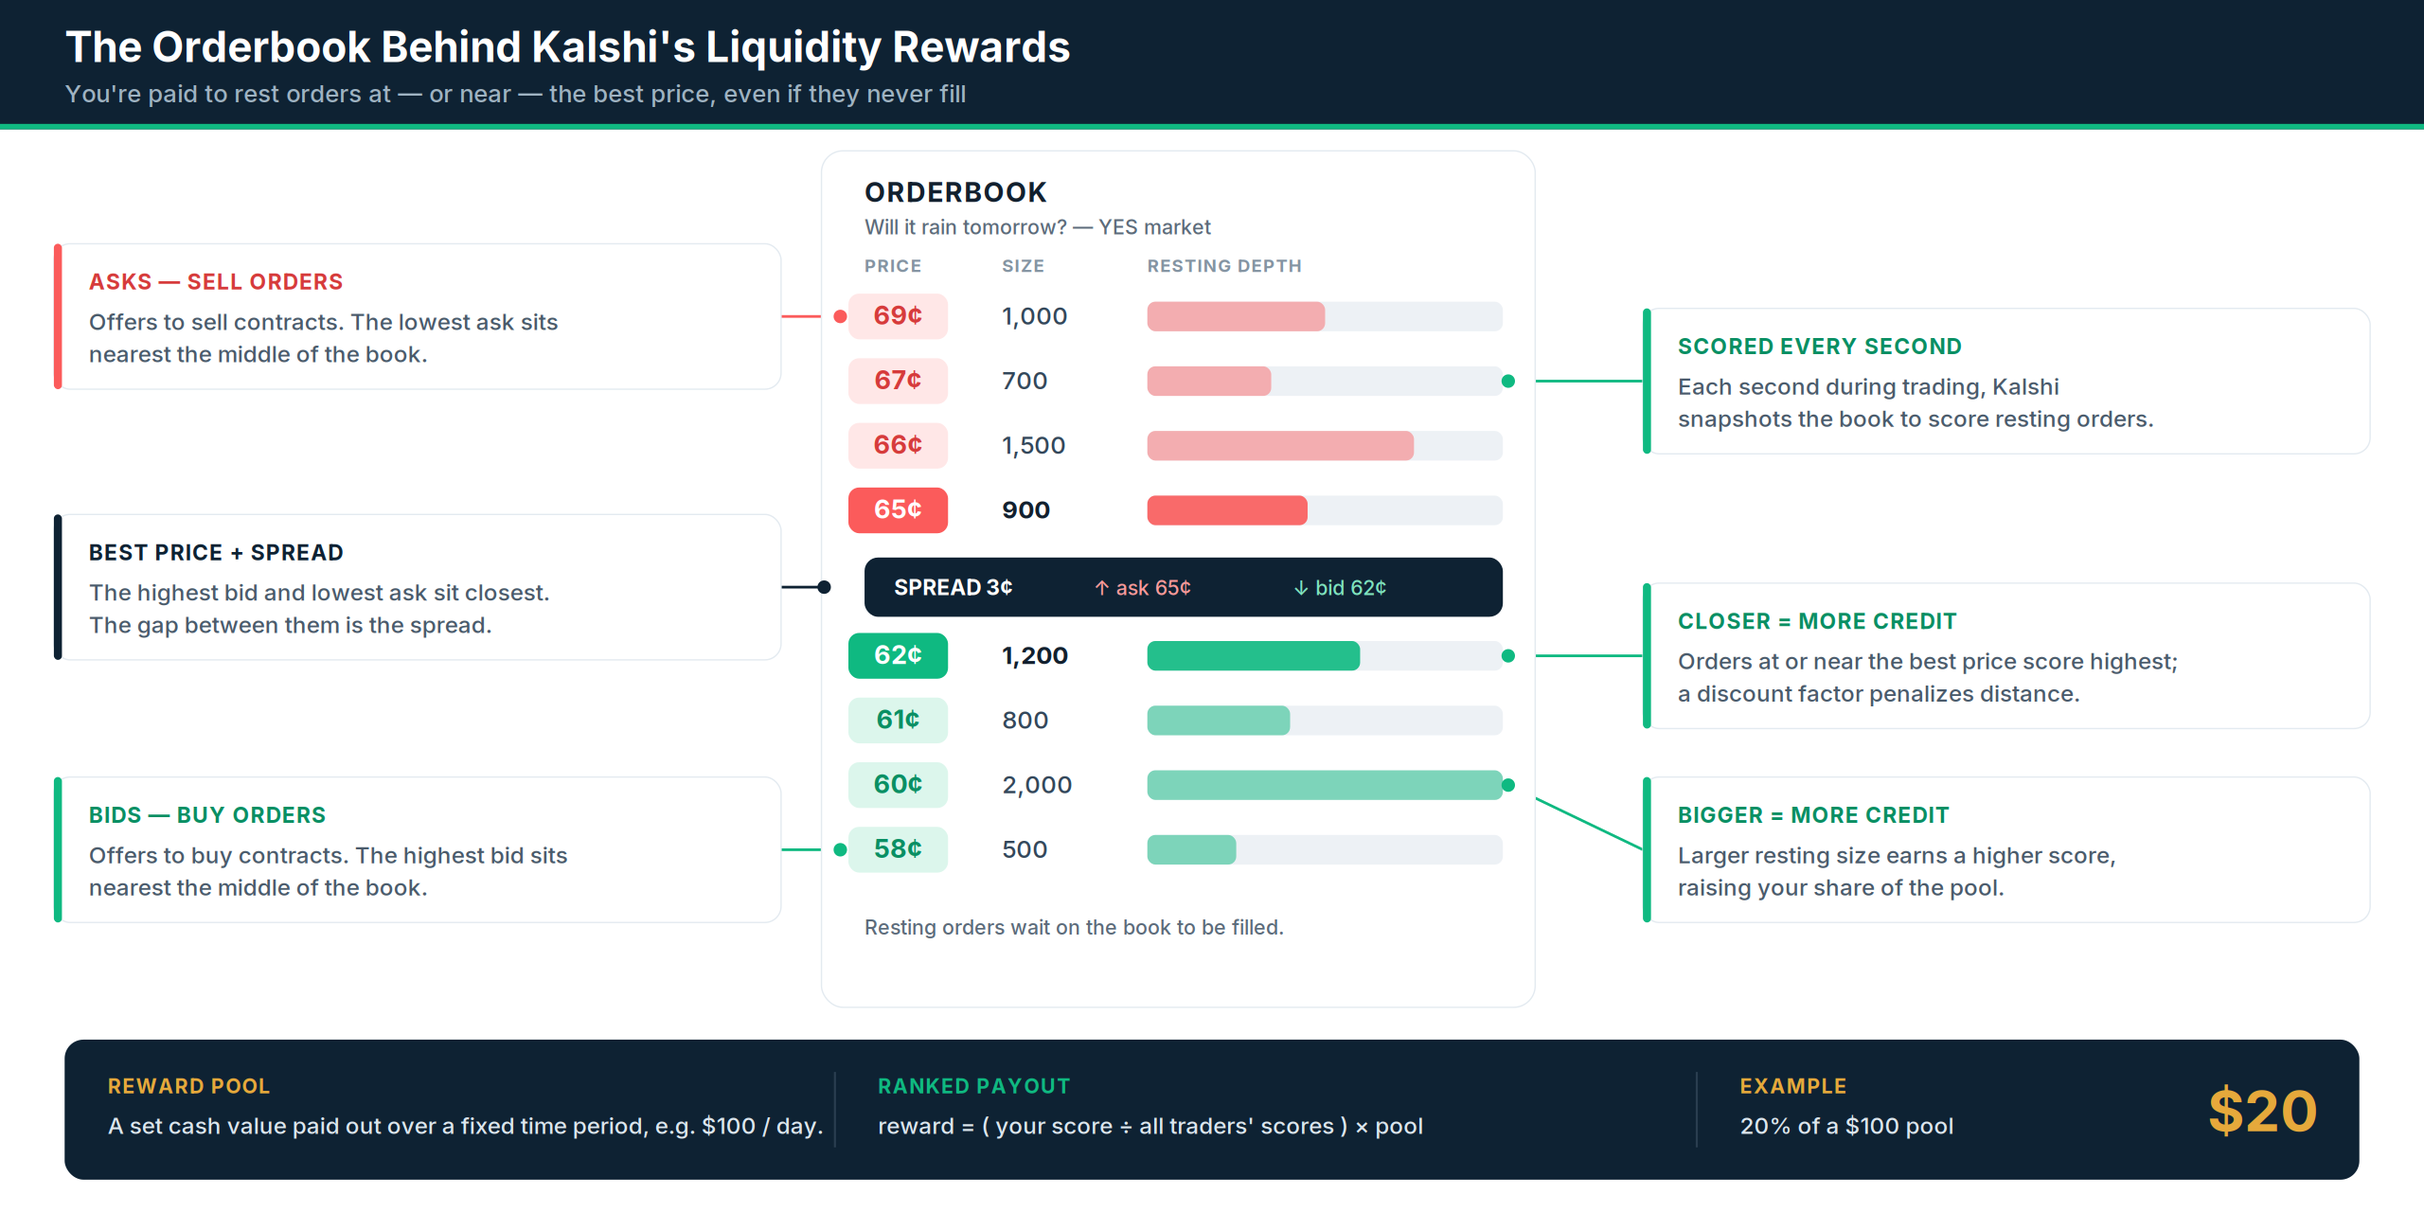
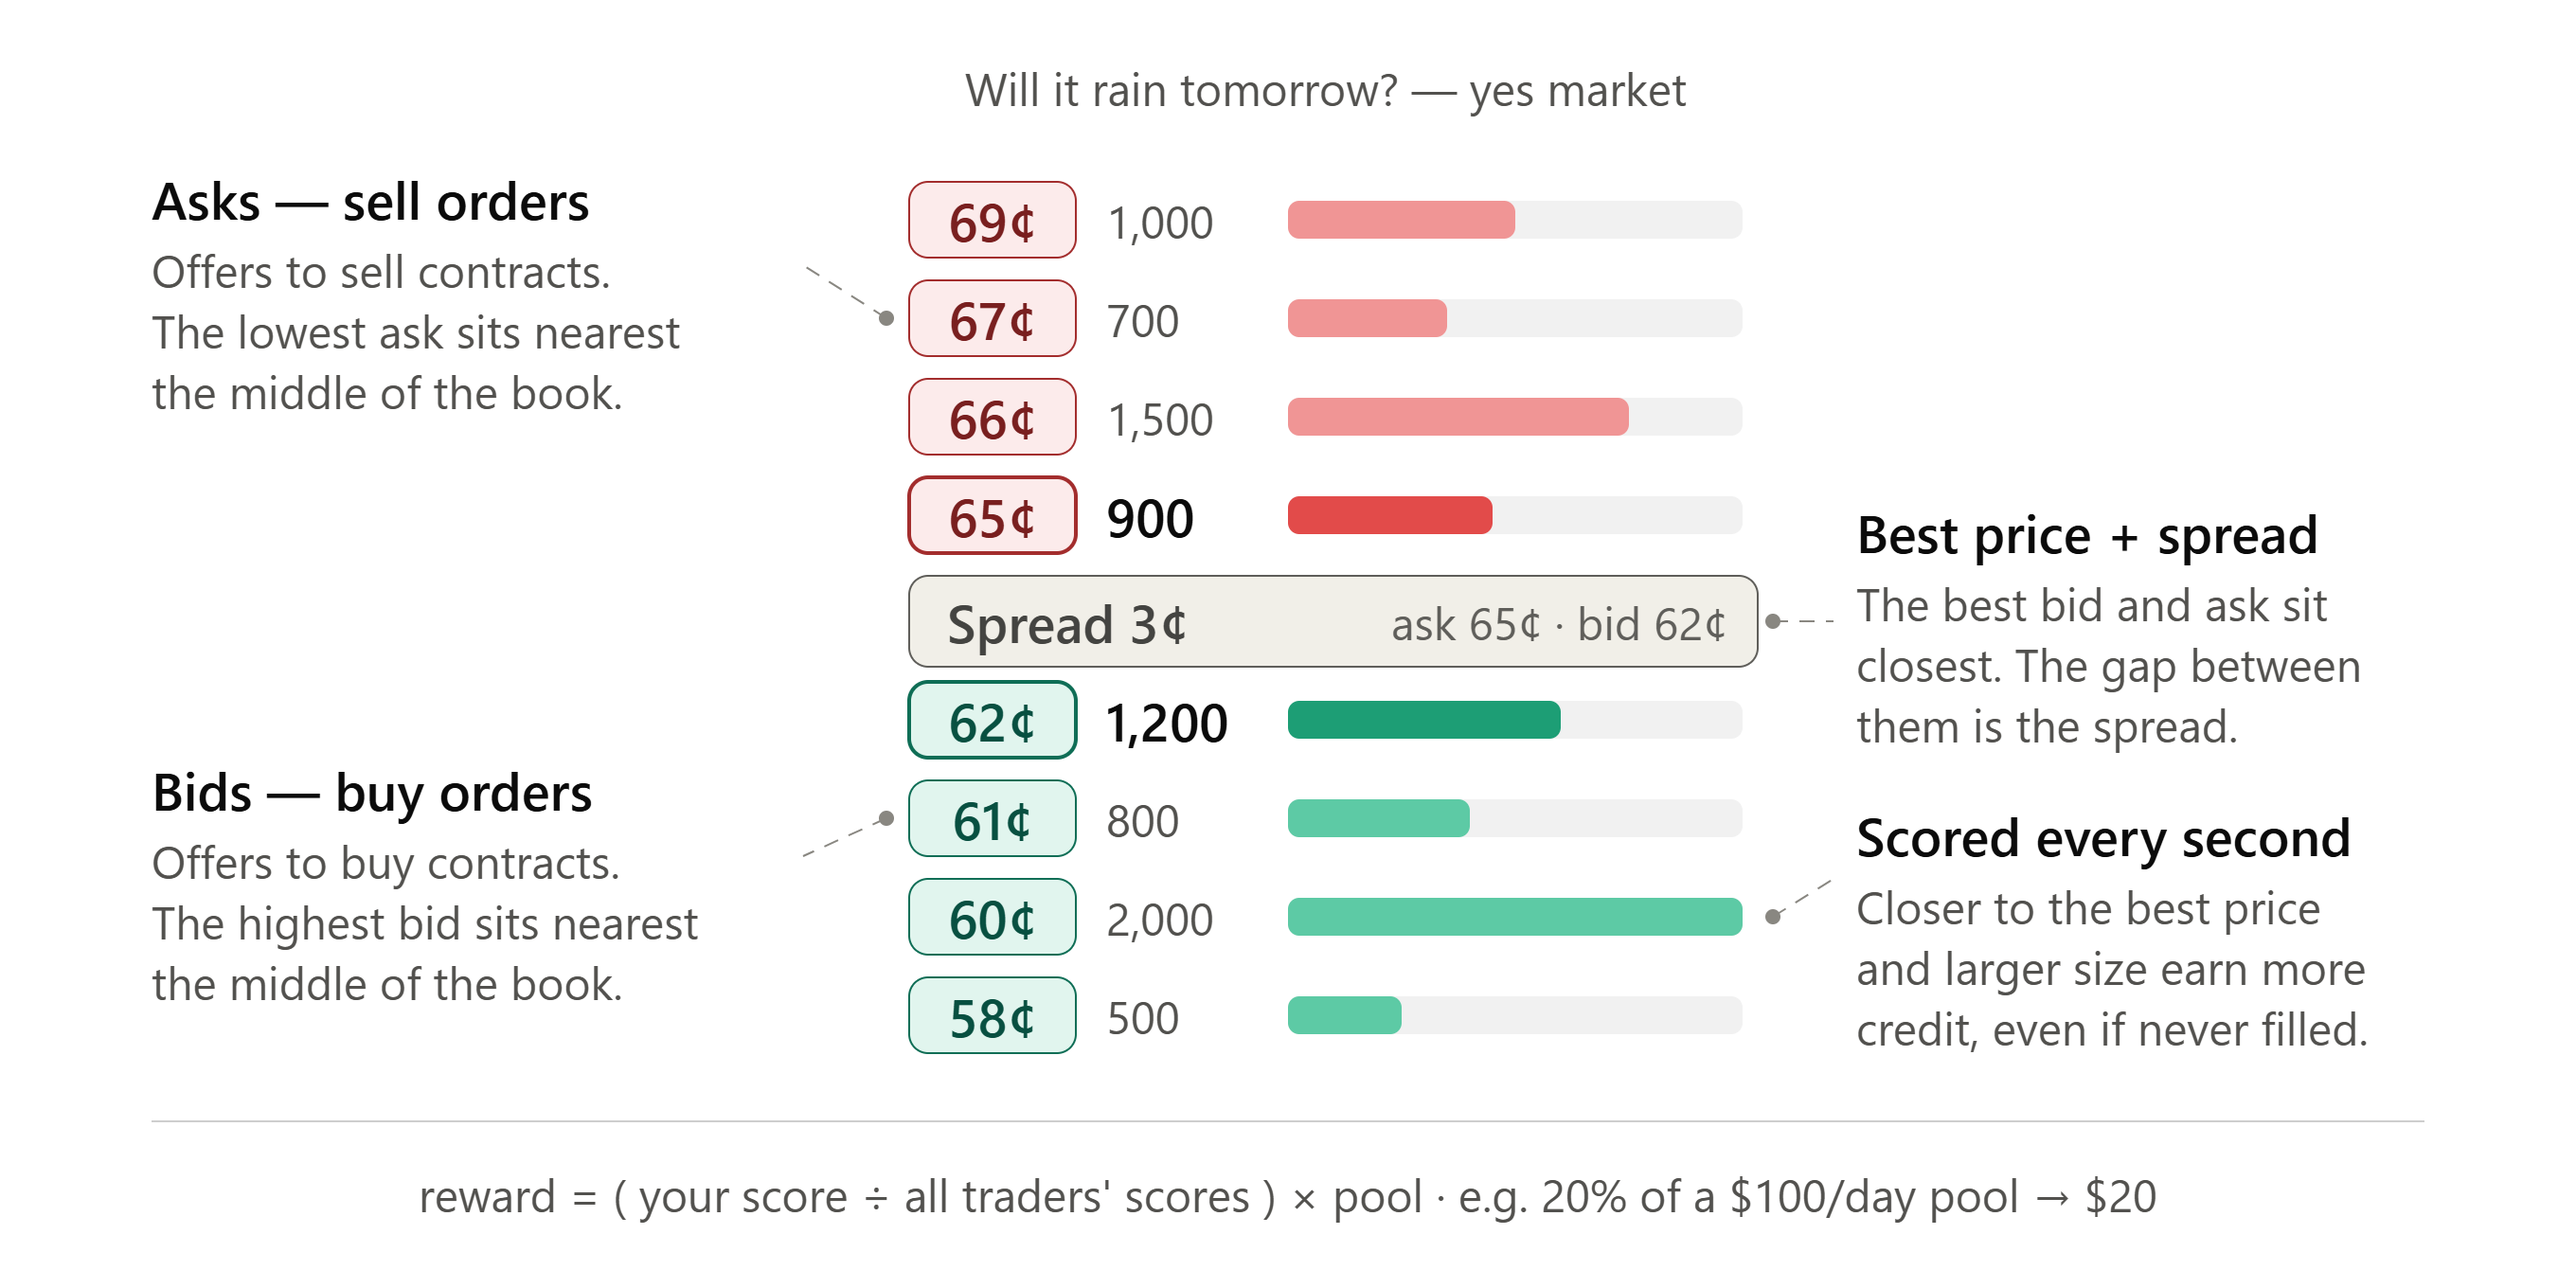
kmm - revamped diagrams

diff --git a/content/work/kmm.md b/content/work/kmm.md
@@ -35,7 +35,7 @@ columns: 1
 images:
   - src: /images/work/kmm/annotated-orderbook.png
     alt: Annotated Orderbook
-    caption: Claude Opus 4.8
+    caption: Claude Fable 5
 ---
 ::
 
@@ -57,9 +57,9 @@ Imagine a stock that is worth $50 per share. Traders selling the stock are "aski
 ---
 columns: 1
 images:
-  - src: /images/work/kmm/.png
+  - src: /images/work/kmm/spread_capture_three_steps.png
     alt: Annotated Orderbook
-    caption: Claude Opus 4.8
+    caption: Claude Fable 5
 ---
 ::
 
@@ -85,7 +85,7 @@ Initial Research
 ::
 
 ::text-block
-I ran 2 days of simulated paper trading. I used a simple Python script to scan for markets with the largest $/day pools, track price movement, snapshot the orderbook, and loosely simulate how a simple strategy (e.g. quote best bid/ask symmetrically no matter what) would perform. At the end of this data collection, I had a script score my orders and track my PnL from trading activity.
+I ran 2 days of simulated paper trading. I used a Python script to scan for markets with the largest $/day pools, track price movement, snapshot the orderbook, and loosely simulate how a simple strategy (e.g. quote best bid/ask symmetrically no matter what) would perform. At the end of this data collection, I had a script score my orders and track my PnL from trading activity.
 <br><br>
 The results were encouraging. Even with extremely pessimistic adjustments (to account for [adverse selection](https://en.wikipedia.org/wiki/Adverse_selection) and simulation error), I concluded this project would be well worth my time to develop. Key takeaways: 
 - Liquidity rewards were a massive target (Kalshi offering ~$30,000/day across all markets at that time). 
